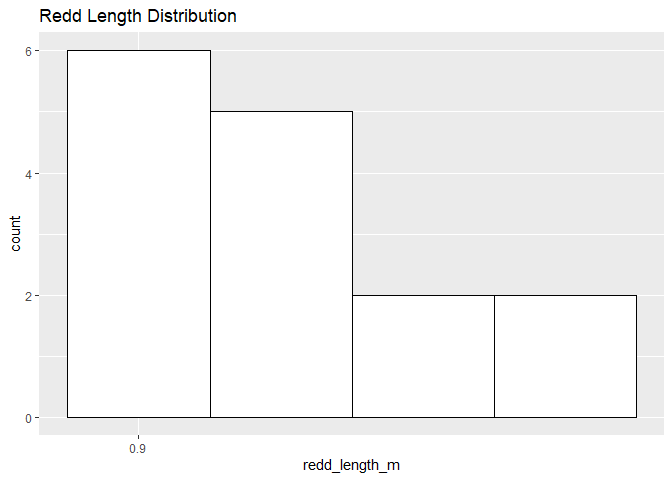
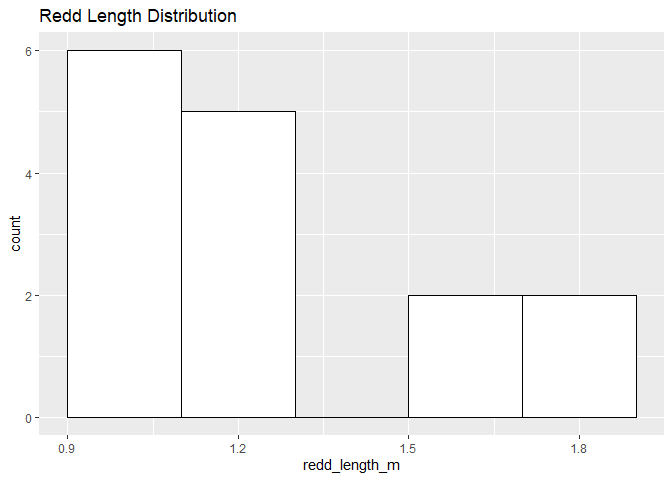
edited graphs

diff --git a/scripts/adult-holding-redd-and-carcass-surveys/feather-river-redd-survey-qc-checklist-2009.md b/scripts/adult-holding-redd-and-carcass-surveys/feather-river-redd-survey-qc-checklist-2009.md
@@ -324,8 +324,8 @@ cleaner_data_2009 %>%
 ``` r
 cleaner_data_2009 %>%
   ggplot(aes(x = redd_width_m)) +
-  geom_histogram(binwidth = 0.5, color = "black", fill = "white") +
-  scale_x_continuous(breaks = round(seq(min(cleaner_data_2009$redd_width_m, na.rm = TRUE), max(cleaner_data_2009$redd_width_m, na.rm = TRUE), by = 1),0))+
+  geom_histogram(binwidth = 0.3, color = "black", fill = "white") +
+  scale_x_continuous(breaks = round(seq(min(cleaner_data_2009$redd_width_m, na.rm = TRUE), max(cleaner_data_2009$redd_width_m, na.rm = TRUE), by = 0.5),0))+
   labs(title = "Redd Width Distribution")
 ```
 
@@ -350,8 +350,8 @@ summary(cleaner_data_2009$redd_width_m)
 #TODO: chance xaxis interval
 cleaner_data_2009 %>%
   ggplot(aes(x = redd_length_m)) +
-  geom_histogram(binwidth = 0.3, color = "black", fill = "white") +
-  scale_x_continuous(breaks = round(seq(min(cleaner_data_2009$redd_length_m, na.rm = TRUE), max(cleaner_data_2009$redd_length_m, na.rm = TRUE), by = 1),1))+
+  geom_histogram(binwidth = 0.2, color = "black", fill = "white") +
+  scale_x_continuous(breaks = round(seq(min(cleaner_data_2009$redd_length_m, na.rm = TRUE), max(cleaner_data_2009$redd_length_m, na.rm = TRUE), by = 0.3),1))+
   labs(title = "Redd Length Distribution")
 ```
 
@@ -650,28 +650,28 @@ gcs_upload(feather_redd_survey_2009,
            name = "adult-holding-redd-and-carcass-surveys/feather-river/data/feather_redd_2009.csv")
 ```
 
-    ## i 2021-10-15 15:33:32 > File size detected as  19.8 Kb
+    ## i 2021-10-15 15:48:34 > File size detected as  19.8 Kb
 
-    ## i 2021-10-15 15:33:32 > Request Status Code:  400
+    ## i 2021-10-15 15:48:34 > Request Status Code:  400
 
     ## ! API returned: Cannot insert legacy ACL for an object when uniform bucket-level access is enabled. Read more at https://cloud.google.com/storage/docs/uniform-bucket-level-access - Retrying with predefinedAcl='bucketLevel'
 
-    ## i 2021-10-15 15:33:32 > File size detected as  19.8 Kb
+    ## i 2021-10-15 15:48:34 > File size detected as  19.8 Kb
 
     ## ==Google Cloud Storage Object==
     ## Name:                adult-holding-redd-and-carcass-surveys/feather-river/data/feather_redd_2009.csv 
     ## Type:                csv 
     ## Size:                19.8 Kb 
-    ## Media URL:           https://www.googleapis.com/download/storage/v1/b/jpe-dev-bucket/o/adult-holding-redd-and-carcass-surveys%2Ffeather-river%2Fdata%2Ffeather_redd_2009.csv?generation=1634337212465973&alt=media 
+    ## Media URL:           https://www.googleapis.com/download/storage/v1/b/jpe-dev-bucket/o/adult-holding-redd-and-carcass-surveys%2Ffeather-river%2Fdata%2Ffeather_redd_2009.csv?generation=1634338114463823&alt=media 
     ## Download URL:        https://storage.cloud.google.com/jpe-dev-bucket/adult-holding-redd-and-carcass-surveys%2Ffeather-river%2Fdata%2Ffeather_redd_2009.csv 
     ## Public Download URL: https://storage.googleapis.com/jpe-dev-bucket/adult-holding-redd-and-carcass-surveys%2Ffeather-river%2Fdata%2Ffeather_redd_2009.csv 
     ## Bucket:              jpe-dev-bucket 
-    ## ID:                  jpe-dev-bucket/adult-holding-redd-and-carcass-surveys/feather-river/data/feather_redd_2009.csv/1634337212465973 
+    ## ID:                  jpe-dev-bucket/adult-holding-redd-and-carcass-surveys/feather-river/data/feather_redd_2009.csv/1634338114463823 
     ## MD5 Hash:            nqfUAaw5wY2t18jOk96N8g== 
     ## Class:               STANDARD 
-    ## Created:             2021-10-15 22:33:32 
-    ## Updated:             2021-10-15 22:33:32 
-    ## Generation:          1634337212465973 
+    ## Created:             2021-10-15 22:48:34 
+    ## Updated:             2021-10-15 22:48:34 
+    ## Generation:          1634338114463823 
     ## Meta Generation:     1 
-    ## eTag:                CLWG+Me8zfMCEAE= 
+    ## eTag:                CM/Qhfa/zfMCEAE= 
     ## crc32c:              oXTTdw==
